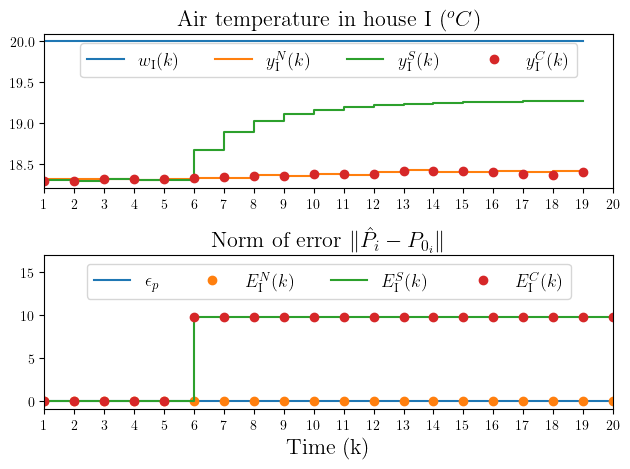
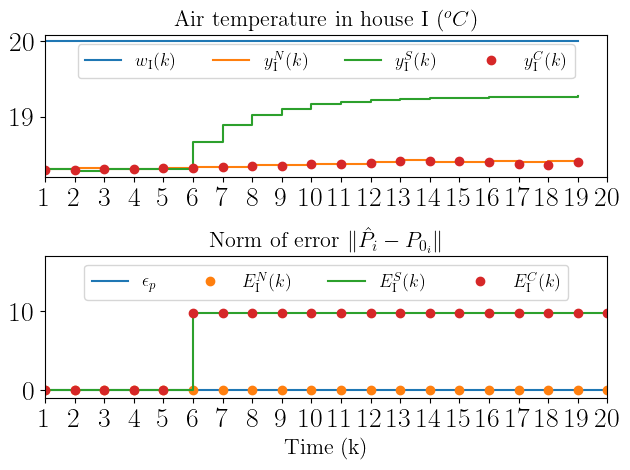
increase ticks

Changed region(s): [[0.0, 0.0, 0.9952, 0.4478], [0.0, 0.4776, 0.9952, 0.9851], [0.2111, 0.597, 0.2714, 0.6269]]

diff --git a/tex/main_matter/safe_dmpc_eq.tex b/tex/main_matter/safe_dmpc_eq.tex
@@ -971,7 +971,7 @@ $\epsilon_{P}=10^{-4}$.
 \begin{figure}[h]
   \centering
   \includegraphics[width=.7\textwidth]{../img/resilient_eq/__ErrorWX_command_normErrH.pdf}
-\caption{Temperature in house I and the decision variable $E_{I}(k)$ for different scenarios. \todo{remake figure}}\label{fig:response_houseI_3Scenarios}
+\caption{Temperature in house I and the decision variable $E_{I}(k)$ for different scenarios.}\label{fig:response_houseI_3Scenarios}
 \end{figure}
 As expected, the decision variable lies under the threshold $\epsilon_{P}=10^{-4}$ in the nominal scenario.
 But for scenarios S and C, where the agent attacks the system, the detection variable surpasses the threshold, indicating the change of behavior of agent I.

diff --git a/code/resilient_eq/generate_figures.py b/code/resilient_eq/generate_figures.py
@@ -638,6 +638,10 @@ axs[1].set_ylim([-1, 17])
 axs[1].set_xticks(np.arange(0,simK+1,1))
 axs[1].set_xlim([1, simK])
 axs[1].set_xlabel('Time (k)',usetex=True,fontsize=16)
+axs[0].tick_params(axis='both', which='major', labelsize=20)
+axs[1].tick_params(axis='both', which='major', labelsize=20)
+
+
 # axs[1].legend(( '$Sub_1$', '$Sub_2$','$Sub_3$','$Sub_4$'),loc='upper center',ncol=4,fontsize=13)
 # axs[1].legend(( '$I$', '$II$','$III$','$IV$'),loc='upper left',ncol=2,fontsize=13)
 # axs[1].legend(( 'I', 'II','III','IV'),loc='upper center',ncol=4,fontsize=13)
